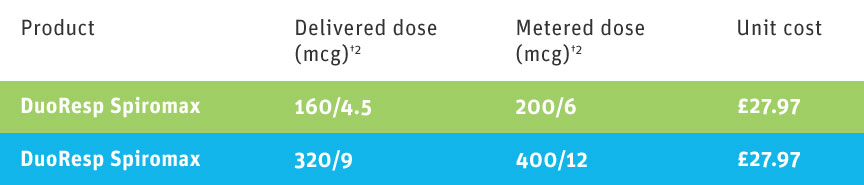
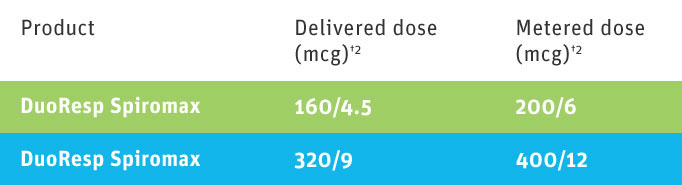
Remove 'cost' from image on HCP page

diff --git a/hcp.html b/hcp.html
@@ -37,7 +37,7 @@
 			<a href="assets/video/spiromax-how-to-use-animation.mp4" download="spiromax-how-to-use-animation.mp4"><div class="patient-guide"><img class="" src="assets/img/red-video-icon.png"><p>To download this video please click on the download button and follow instructions dependent upon your browser.</p></div></a>
 		</div>
 		<p class="sub_text two"><strong>Product comparison</strong></p>
-		<img class="table" src="assets/img/hcp/table.jpg" width="432">
+		<img class="table" src="assets/img/hcp/table.jpg" width="341">
 		<p class="sub_text three"><strong>Further information for Healthcare Professionals</strong></p>
 		<div class="links two">
 			<a href="assets/pdf/DuoResp Spiromax Digital Vertical Fold Leavepiece.pdf" download="DuoResp Spiromax Digital Vertical Fold Leavepiece.pdf"><div class="patient-guide"><img class="" src="assets/img/patient/red-pdf-icon.png"><p>A downloadable pdf containing a summary of some of the key points relating to DuoResp Spiromax</p></div></a>

diff --git a/styles/hcp.scss b/styles/hcp.scss
@@ -244,7 +244,7 @@ $duoresp-grey: #333333;
 @media only screen and (max-width: 1026px) {
 
 
-	.footer-nav { 
+	.footer-nav {
 		-ms-grid-row: 20;
 		grid-row: 20;
 	}
@@ -254,14 +254,14 @@ $duoresp-grey: #333333;
 	}
 }
 @media screen and (min-width: 441px) {
-	
+
 	.sub_text {
 		font-size: 30px;
 	}
 }
 
 @media screen and (max-width: 441px) {
-	
+
 	.sub_text {
 		-ms-grid-column-align: left;
 		justify-self: left;
@@ -281,7 +281,7 @@ $duoresp-grey: #333333;
 	}
 
 	.table {
-		width: 1000px;
+		width: 682px;
 	}
 
 	.links {
